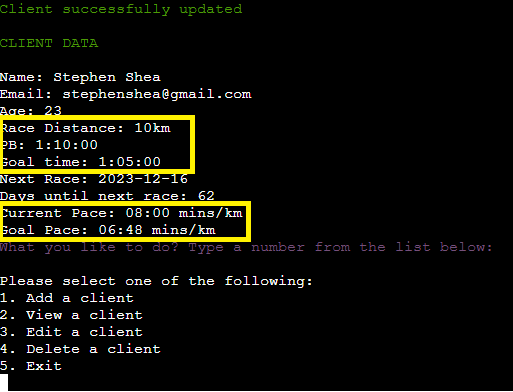
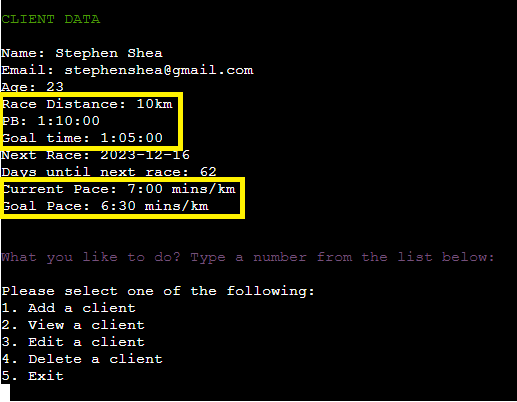
Add info + images to Test Cases in README

Changed region(s): [[0.0, 0.0918, 0.9669, 0.6735], [0.0, 0.7041, 0.6238, 1.0], [0.0, 0.0, 0.4678, 0.0612]]

diff --git a/README.md b/README.md
@@ -232,7 +232,7 @@ The user cannot input a number below 18 or above 100. They will be warned about 
 
 <img src='/docs/action2/search2.png' >
 
-4. When the user inputs a valid email that exists in the database, the client's information connected to that email will be displayed and the main menu will also be displayed.
+4. When the user inputs a valid email that exists in the database, the "days until the next race" figure will be updated from today. The client's information will be displayed and the Main Menu will also be displayed.
 
 <img src='/docs/action2/search3.png' >
 
@@ -284,16 +284,45 @@ The user cannot input a number below 18 or above 100. They will be warned about 
 
 8. On selecting a valid option from the list, the user will then be prompted to update their client's PB and Goal time for that distance. The same validation requirements and time limits are applied as outlined in the Add a Client section.
 
-<img src='/docs/action3/edit_distance1.png' >
 <img src='/docs/action3/edit_distance2.png' >
 
-9. On entering valid time data, the database will be updated for distance, PB and goal time. The client's updated data will be displayed along with the Main Menu.
+9. On entering valid time data, the database will be updated for distance, PB and goal time. The current race pace and goal race pace will also be updated in the database. The client's updated data will be displayed along with the Main Menu.
+
+<img src='/docs/action3/edit_distance4.png' >
+<img src='/docs/action3/edit_distance3.png' >
 
 ##### Edit Current PB
 
+10. If the user selects to edit their client's current PB, they will be prompted to enter the new PB time. The same validation requirements and time limits are applied as outlined in the Add a Client section.
+
+<img src='/docs/action3/edit_pb.png' >
+
+11. On entering valid time data, the database will be updated with the new current PB. The current race pace will also be updated in the database. The client's updated data will then be displayed along with the Main Menu.
+
+<img src='/docs/action3/edit_pb2.png' >
+<img src='/docs/action3/edit_pb1.png' >
+
 ##### Edit Goal Time
 
+12. If the user selects to edit their client's current goal time, they will be prompted to enter the new goal time. The same validation requirements and time limits are applied as outlined in the Add a Client section.
+
+<img src='/docs/action3/edit_gt.png' >
+
+13. On entering valid time data, the database will be updated with the new goal time. The goal race pace will also be updated in the database. The client's updated data will then be displayed along with the Main Menu.
+
+<img src='/docs/action3/edit_gt2.png' >
+<img src='/docs/action3/edit_gt1.png' >
+
 ##### Edit Next Race Date
+
+14. If the user selects to edit their client's next race date, they will be prompted to enter the new race date. The same validation requirements and date limits are applied as outlined in the Add a Client section.
+
+<img src='/docs/action3/edit_date.png' >
+
+13. On entering a valid new date, the database will be updated with the new race date. The days until race countdown will also be updated in the database. The client's updated data will then be displayed along with the Main Menu.
+
+<img src='/docs/action3/edit_date2.png' >
+<img src='/docs/action3/edit_date1.png' >
 
 #### Action 4 - Delete a client
 
@@ -306,9 +335,15 @@ The user cannot input a number below 18 or above 100. They will be warned about 
 
 <img src='/docs/action4/delete1.png' >
 
-4. If the user chooses not to delete a client, they will be shown a message stating the client has not been deleted and the main menu will be displayed.
+4. If the user chooses not to delete a client, they will be shown a message stating the client has not been deleted and the main menu will be displayed. The database will not be affected.
 
 <img src='/docs/action4/delete2.png' >
+<img src='/docs/action4/delete3.png' >
+
+5. If the user type "y" or any of the affirmative possibilities, they will be a shown a message confirming the client's data has been removed from the database and the Main Menu will be displayed. The database will be updated.
+
+<img src='/docs/action4/delete4.png' >
+<img src='/docs/action4/delete5.png' >
 
 #### Action 5 - Exit
 
